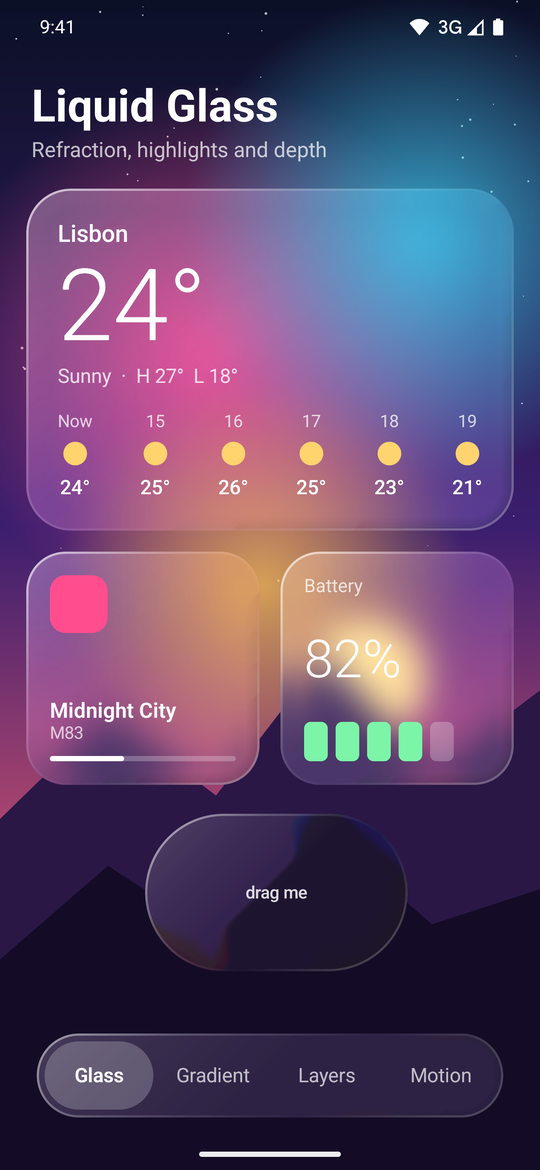
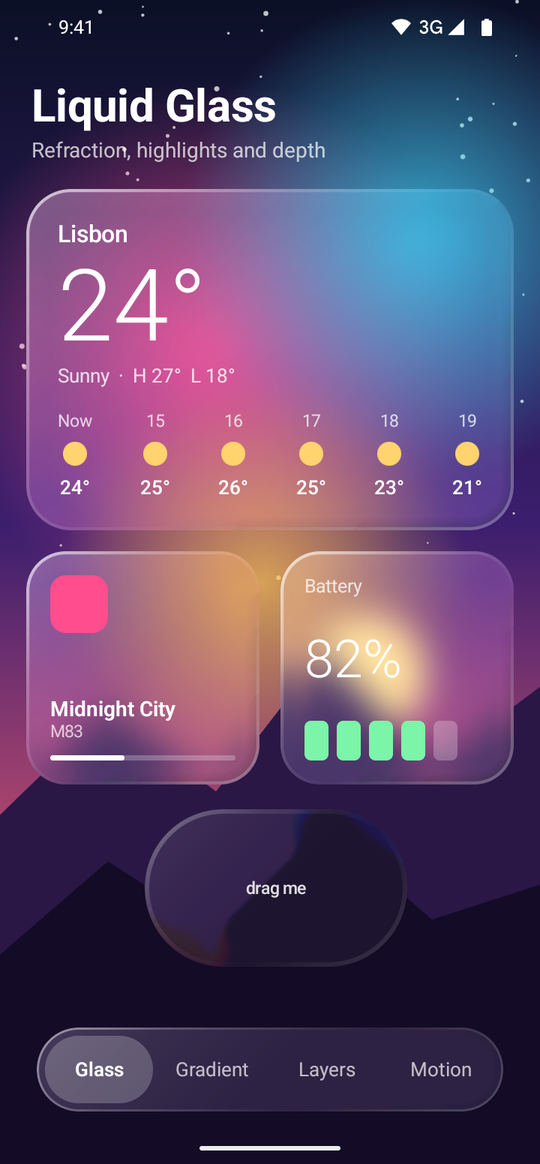
docs: re-record demo GIFs smoothly with host-side emulator recording

diff --git a/CONTRIBUTING.md b/CONTRIBUTING.md
@@ -55,7 +55,16 @@ Results from **physical devices** are the most useful contribution right now: th
 .\scripts\record-demo.ps1 -SkipBuild -Seconds 12 -Screens glass
 ```
 
-It needs `adb` (through `ANDROID_HOME` or the default SDK location) and `ffmpeg` on `PATH` (or `-Ffmpeg <path>`). It turns on System UI demo mode (9:41 clock, full battery, no notifications), launches each screen with `--ez autoplay true` so the app plays scripted motion, records at half resolution, converts each clip to a GIF with a two-pass palette, and turns demo mode off again.
+It needs `adb` (through `ANDROID_HOME` or the default SDK location) and `ffmpeg` on `PATH` (or `-Ffmpeg <path>`). It:
+
+- installs the **release** build of `blur-showcase` (debuggable builds run Compose much slower and drop frames on camera);
+- halves the display size and density while recording (`-Scale`), sets the animator scale to 1, and turns on System UI demo mode (9:41 clock, full battery, no notifications);
+- launches each screen with `--ez autoplay true` so the app plays scripted motion;
+- records **from the host** on an emulator (`adb emu screenrecord`). `screenrecord` inside the emulator encodes in software and kept only 6 to 10 frames per second; on a physical device the script uses `screenrecord`;
+- trims each clip to exactly one cycle of the screen's motion, so the GIF loops seamlessly, and converts it at 25 fps (exactly 4/100 s per GIF frame), 320 px wide, with a dithered two-pass palette;
+- prints how many distinct frames per second each clip got, and restores the display, animator scale and status bar.
+
+Use an emulator with a hardware GPU; with software GL the app itself can't keep up.
 
 To open a screen by hand: `adb shell am start -n dev.blurengine.mrsluffy.showcase/.ShowcaseActivity --es screen layers --ez autoplay true` (screens: `glass`, `gradient`, `layers`, `motion`).
 
